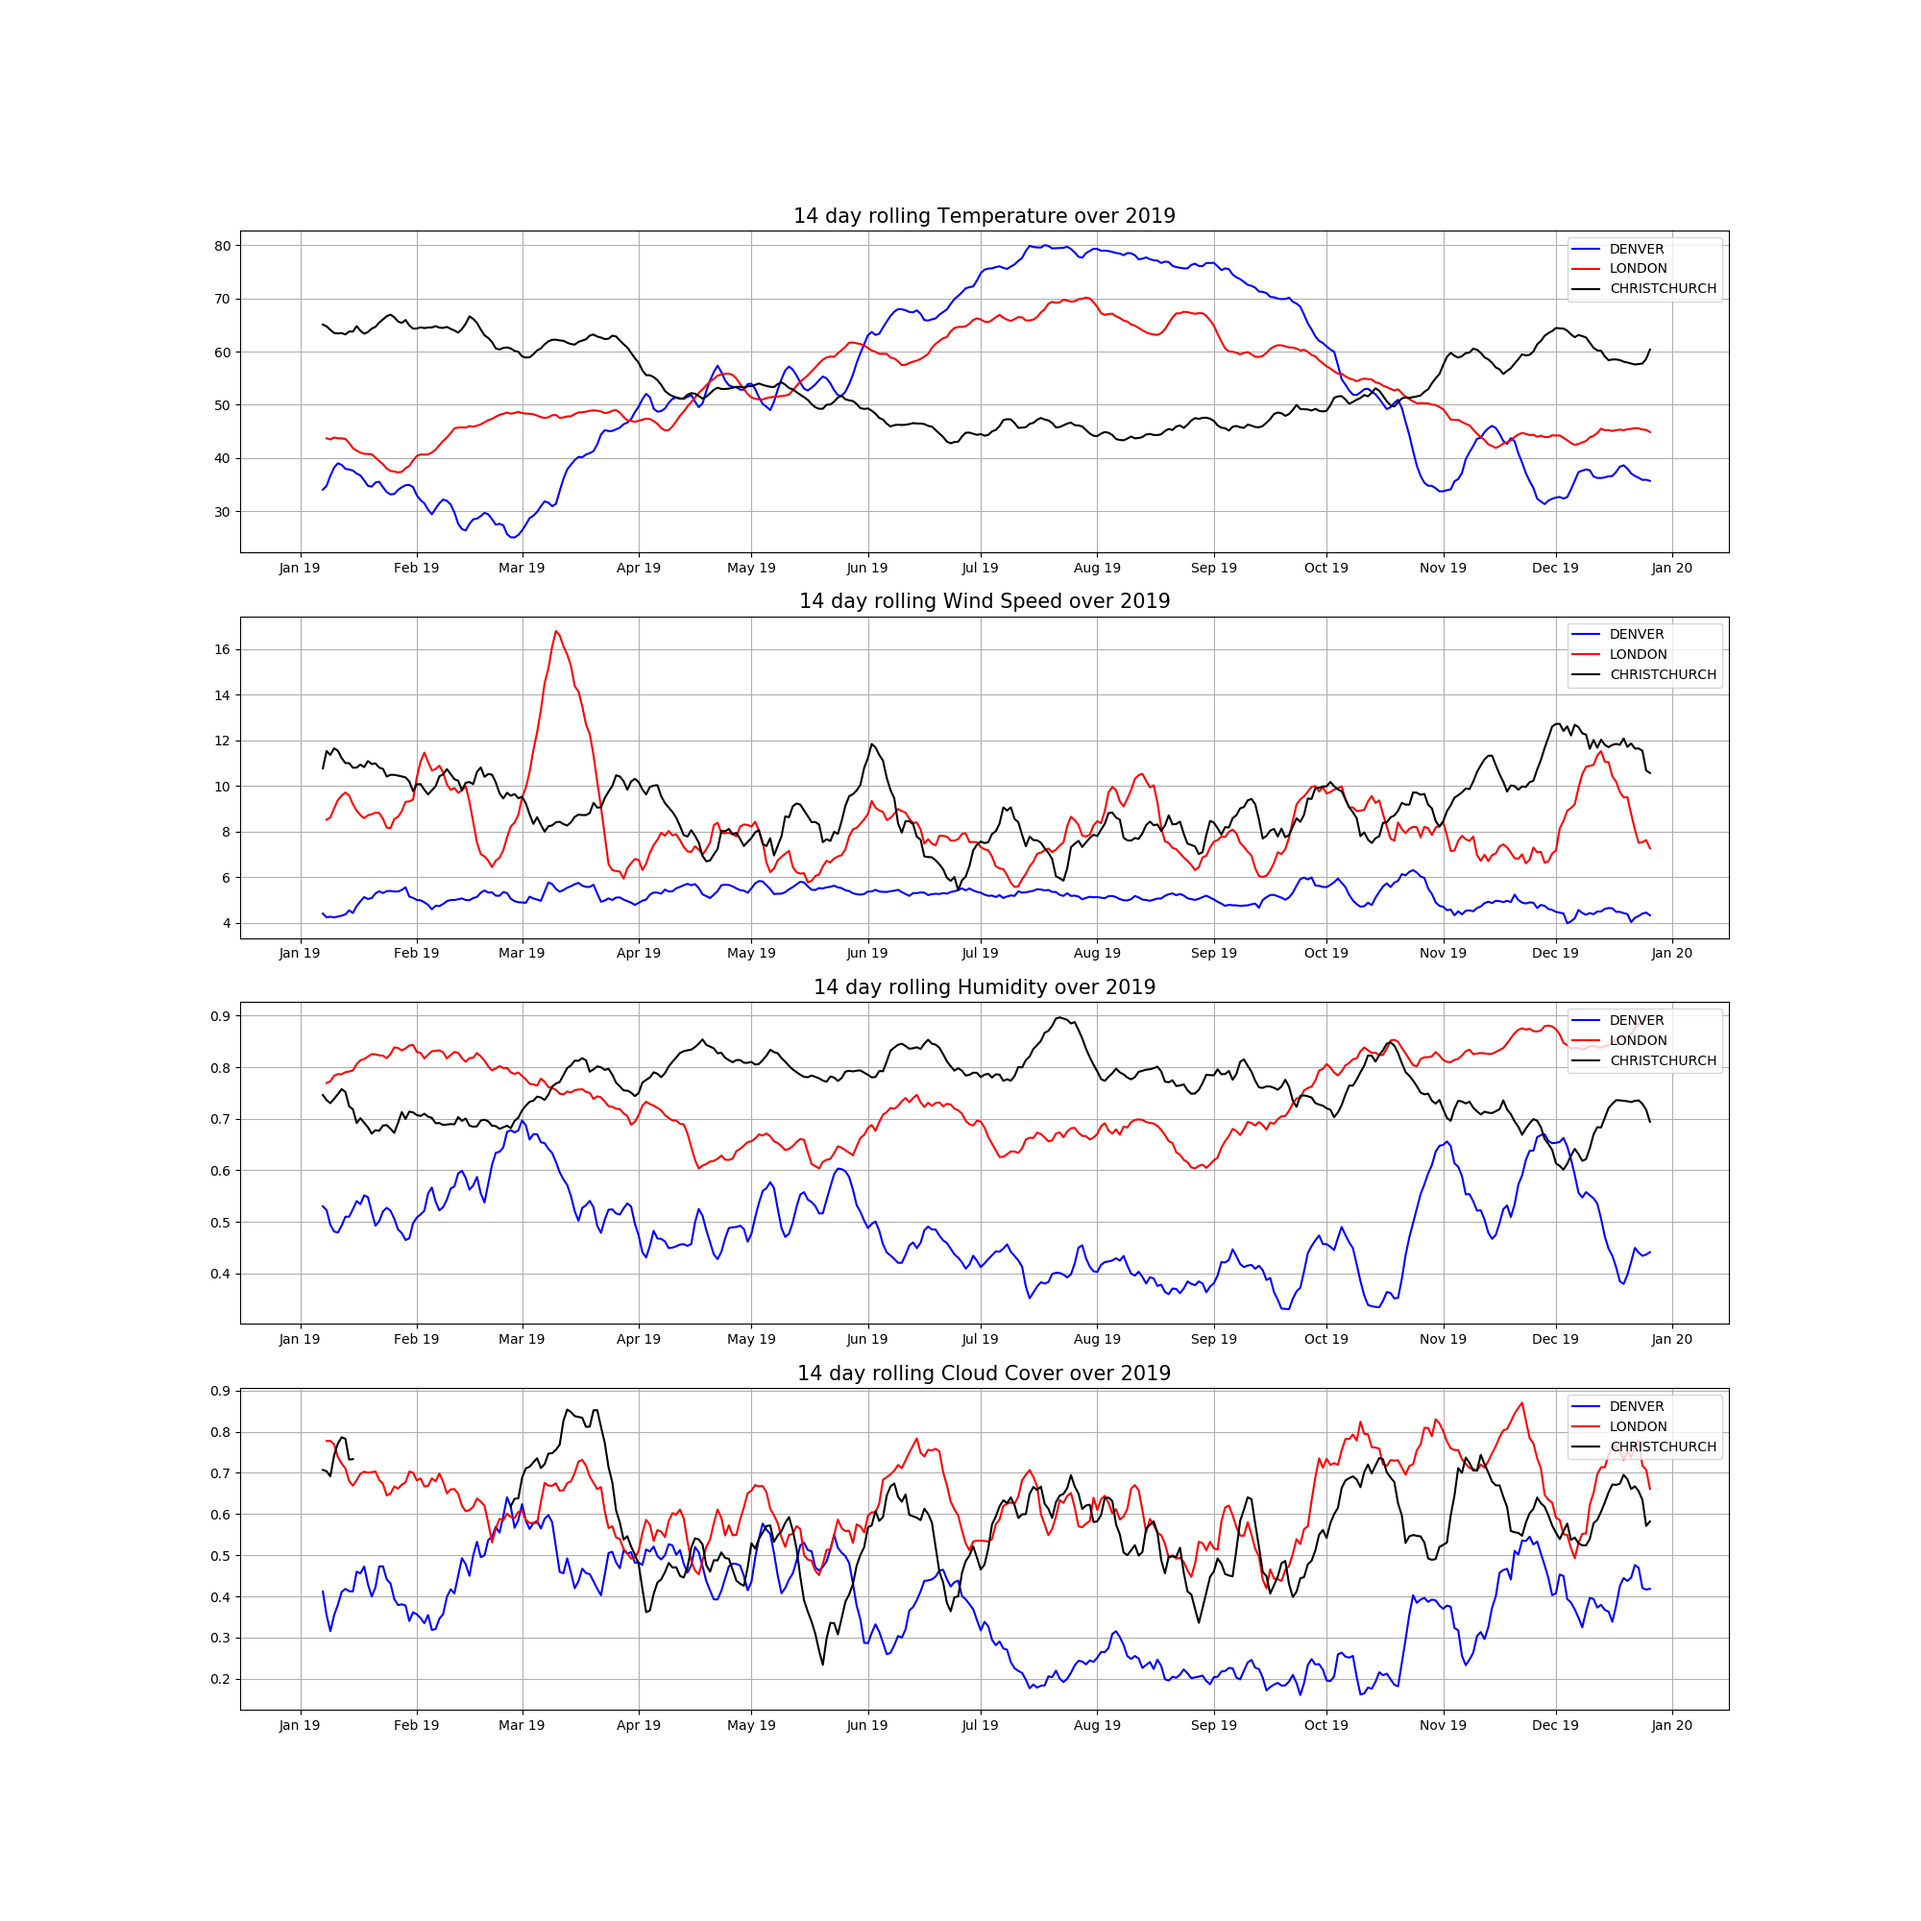
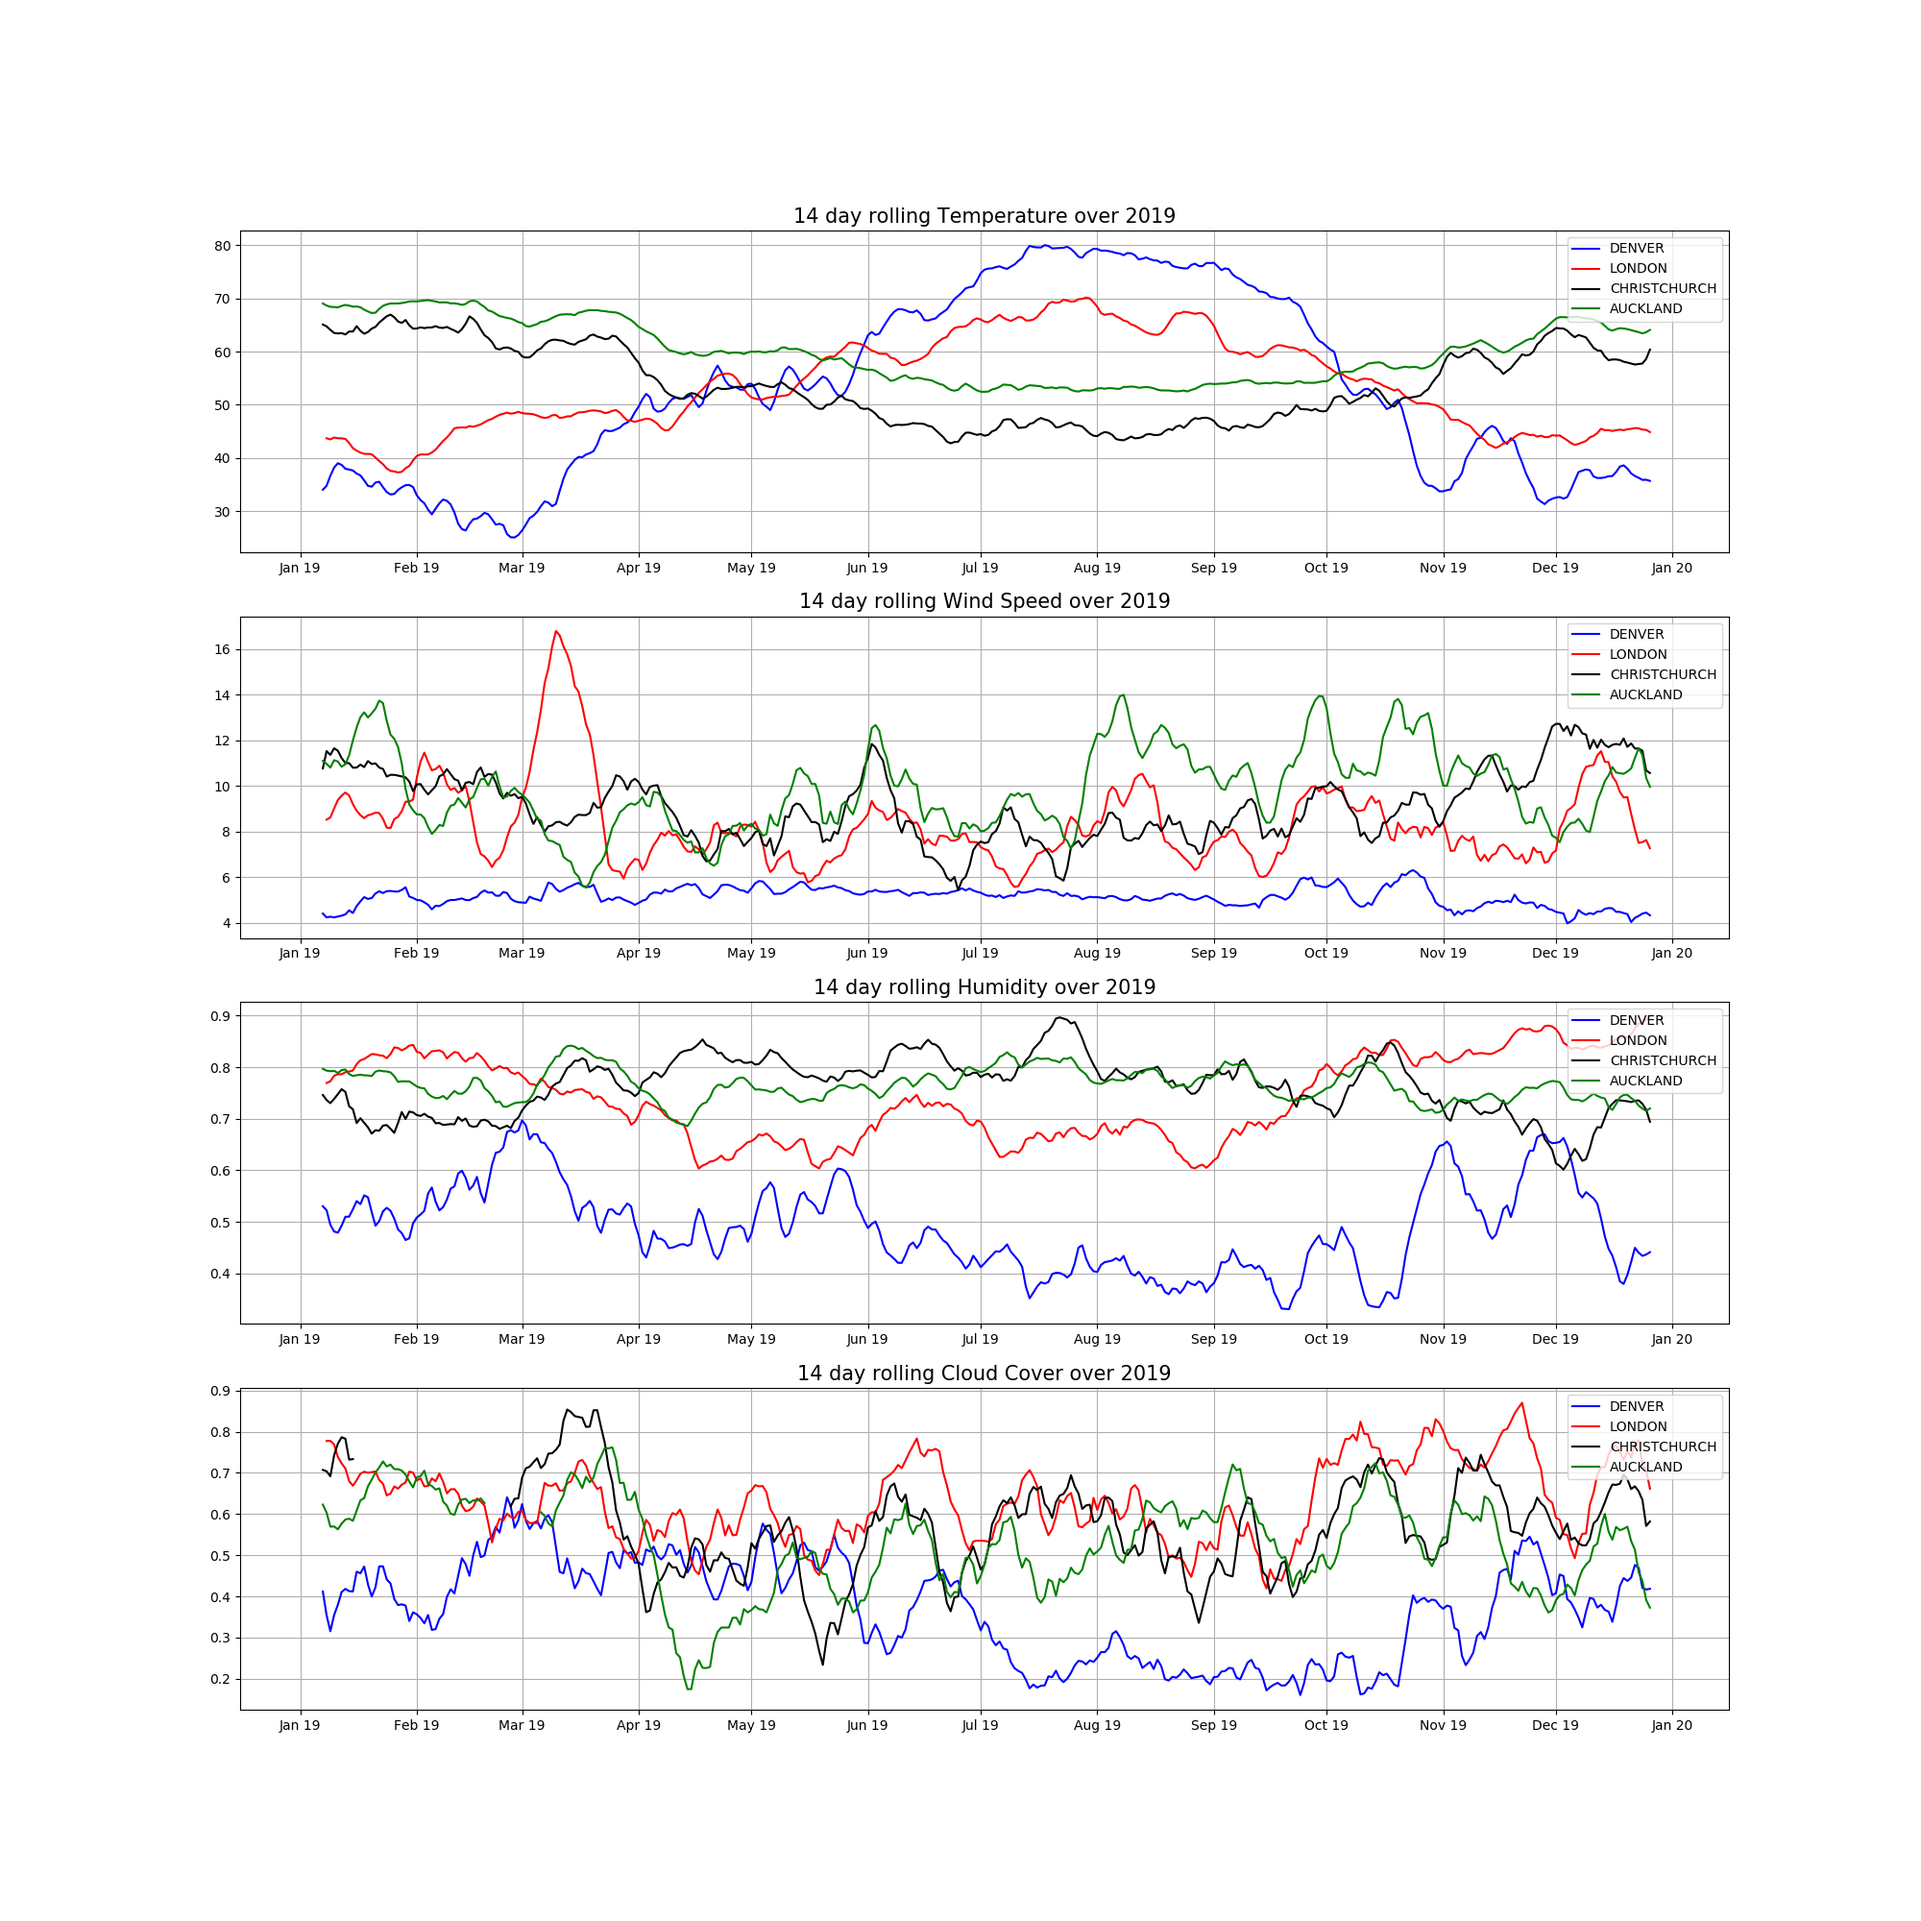
added auckland

diff --git a/make_plots.py b/make_plots.py
@@ -77,7 +77,7 @@ def comparison_plot(means, plot_dir, freq='daily', rolling=14):
 
     for idx, (name, col) in enumerate(zip(names, cols)):
         for place, place_means in means.items():
-            _ = axes[idx].plot(place_means[freq].index, place_means[freq][col].rolling(rolling, center=True).mean(), c=place2color[place], alpha=1, label=place.upper())
+            _ = axes[idx].plot(place_means[freq].index, place_means[freq][col].rolling(rolling, center=True).mean(), c=place2color.get(place), alpha=1, label=place.upper())
 
         axes[idx] = utils.apply_mdates(axes[idx], place_means[freq].index, 'month')
         _ = axes[idx].legend(loc=1)
@@ -95,6 +95,8 @@ def get_color_dict():
     place2color['london'] = 'red'  ## red lion
     place2color['christchurch'] = 'black'  ## all blacks
     place2color['denver'] = 'blue'  ## broncos
+    place2color['auckland'] = 'green'  ## out of ideas
+
     return place2color
 
 

diff --git a/README.md b/README.md
@@ -1,1 +1,7 @@
 # climate-summary
+
+`python download_year.py --place=auckland`
+`python make_summary.py`
+`python make_plots.py`
+
+![alt text](https://github.com/tyler-martin-12/climate-summary/blob/main/plots/denver.png?raw=true)
